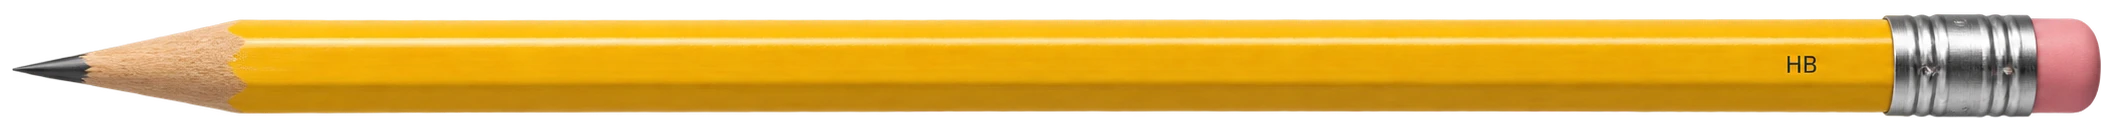
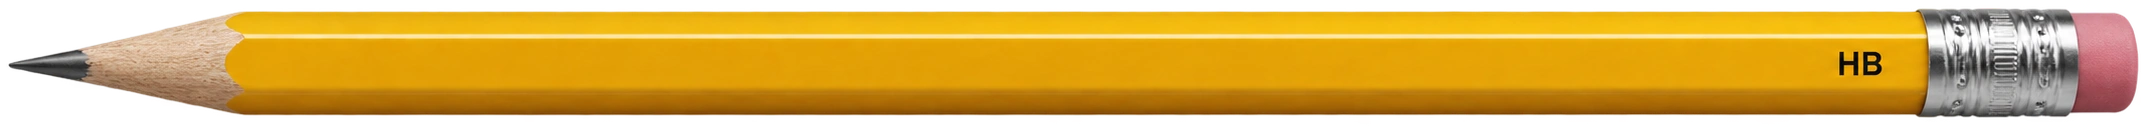
Refine pencil illustration in length measurement

diff --git a/parts/3.1/index.html b/parts/3.1/index.html
@@ -560,10 +560,10 @@
                 <rect x="18" y="108" width="684" height="72" rx="10" fill="#f2dfa9" stroke="#a99255" stroke-width="2"></rect>
                 <g id="measurement-ruler-ticks" fill="none" stroke="#26383a" stroke-width="1.5"></g>
                 <g id="measurement-ruler-labels" fill="#26383a" font-size="14" text-anchor="middle"></g>
-                <g id="measurement-ruler-guides"><path d="M42 84v24 M582 84v24" fill="none" stroke="#718078" stroke-width="1.5" stroke-dasharray="4 4"></path></g>
+                <g id="measurement-ruler-guides"><path d="M42 90v18 M582 90v18" fill="none" stroke="#718078" stroke-width="1.5" stroke-dasharray="4 4"></path></g>
               </g>
               <g id="measurement-pencil-visual" transform="translate(48 0)">
-                <image href="assets/pencil-photo.webp" x="38.898037" y="55" width="546.203925" height="29" preserveAspectRatio="none"></image>
+                <image href="assets/pencil-photo.webp" x="38.898037" y="49" width="546.203925" height="40" preserveAspectRatio="none"></image>
               </g>
             </svg>
             <figcaption id="measurement-caption">同一支鉛筆</figcaption>
@@ -607,7 +607,7 @@
             </div>
             <div class="length-conversion-pencil">
             <svg id="length-conversion-ruler" viewBox="0 0 720 190" role="img" aria-label="同一支鉛筆對齊刻度尺；目前以公分表示長度">
-                <image href="assets/pencil-photo.webp" x="38.898037" y="14" width="546.203925" height="29" preserveAspectRatio="none"></image>
+                <image href="assets/pencil-photo.webp" x="38.898037" y="3" width="546.203925" height="40" preserveAspectRatio="none"></image>
                 <path d="M42 43v40 M582 43v40" fill="none" stroke="#718078" stroke-width="1.4" stroke-dasharray="4 4"></path>
                 <rect x="18" y="82" width="684" height="66" rx="9" fill="#f2dfa9" stroke="#a99255" stroke-width="2"></rect>
                 <g id="length-conversion-ticks" fill="none" stroke="#26383a" stroke-width="1.5"></g>
@@ -637,7 +637,7 @@
           </div>
           <div class="division-visual" aria-label="完整三十公分直尺的等分示意；鉛筆端點位置固定">
             <svg id="division-ruler" viewBox="0 0 520 140" role="img" aria-label="零至三十公分直尺，分成十五等分，每格兩公分；鉛筆固定長十八點二公分，左端對齊零刻度">
-              <image href="assets/pencil-photo.webp" x="20" y="15" width="291.2" height="15.46" preserveAspectRatio="none"></image>
+              <image href="assets/pencil-photo.webp" x="20" y="14" width="291.2" height="17.59" preserveAspectRatio="none"></image>
               <rect x="20" y="52" width="480" height="50" rx="6" fill="#f2dfa9" stroke="#a99255" stroke-width="2"></rect>
               <g id="division-ticks"></g><path id="division-endpoint" d="M311.2 32v78" stroke="#bc612b" stroke-width="3" stroke-dasharray="5 4"></path>
               <text id="division-unit-label" x="20" y="126" fill="#26383a" font-size="13">0 cm</text><text id="division-unit-label-end" x="500" y="126" text-anchor="end" fill="#26383a" font-size="13">30 cm</text>
